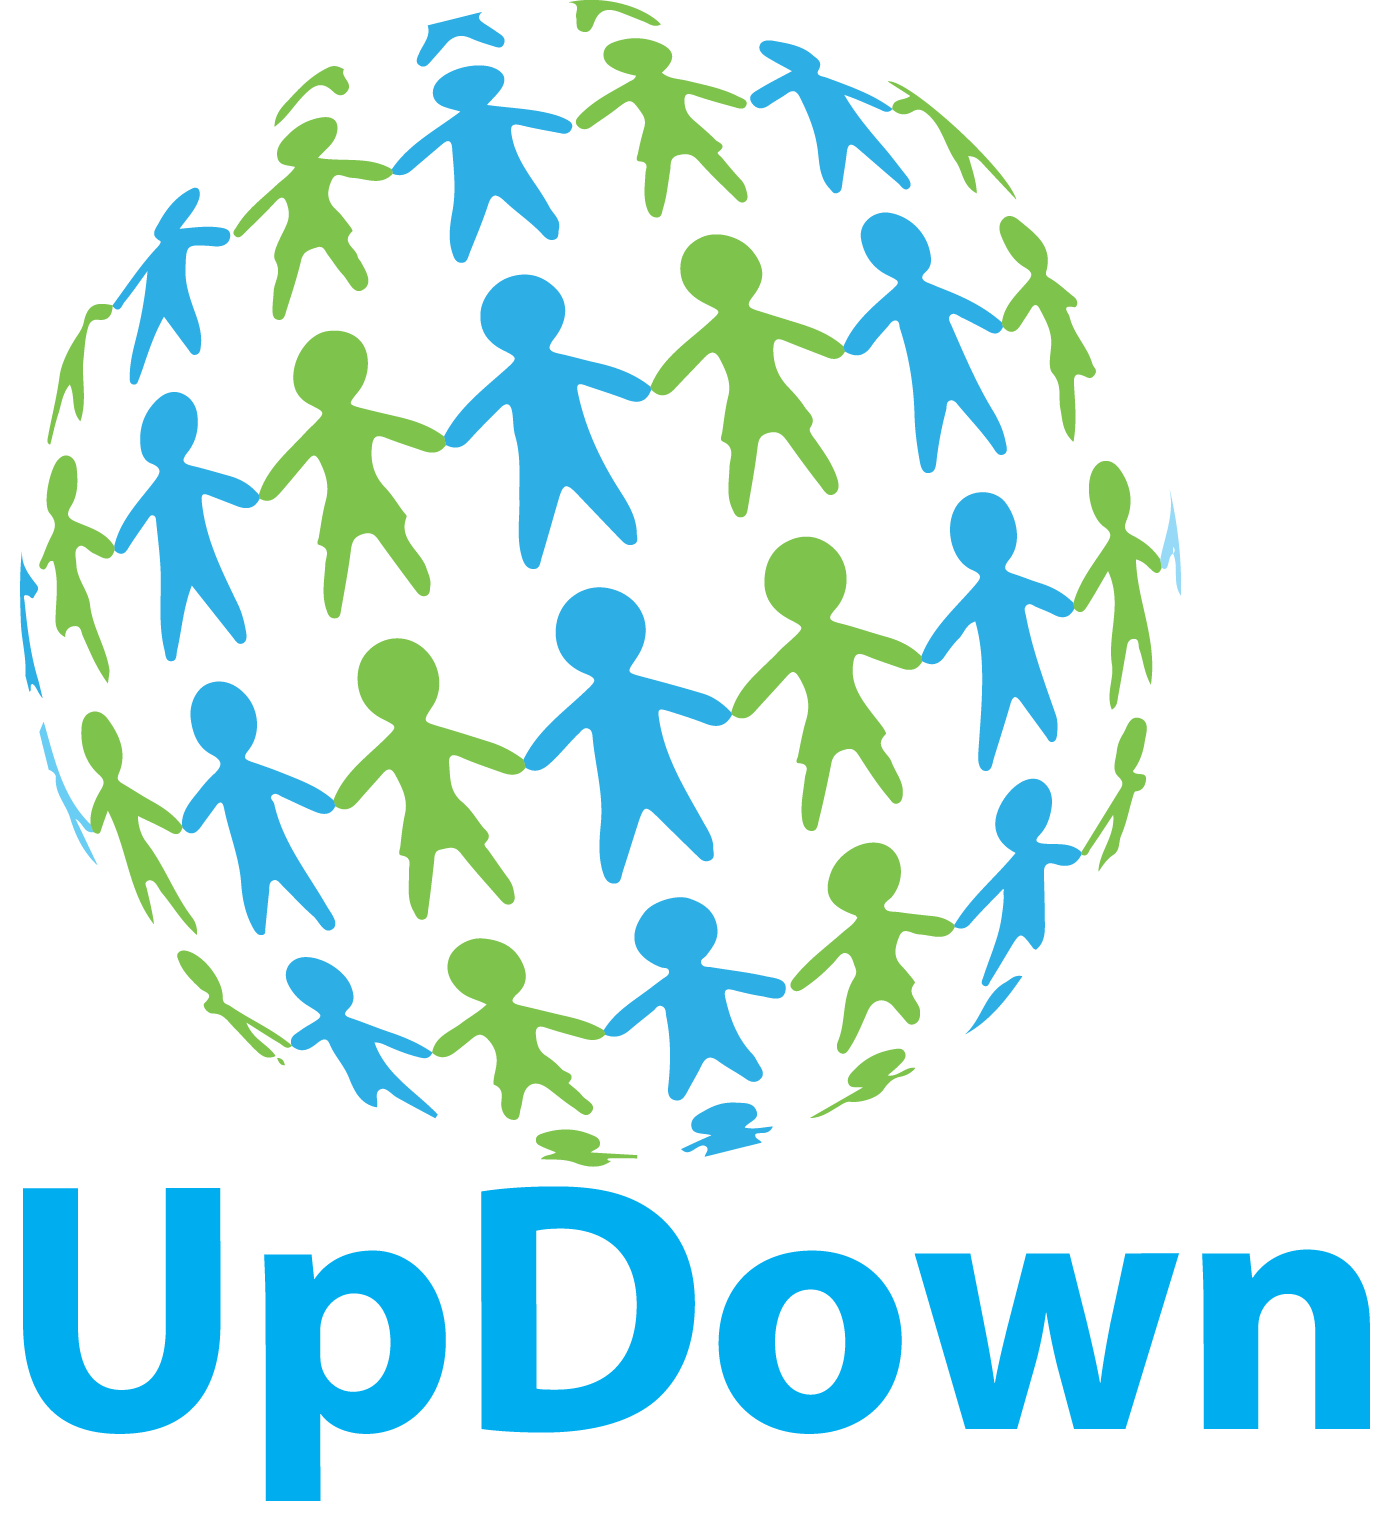
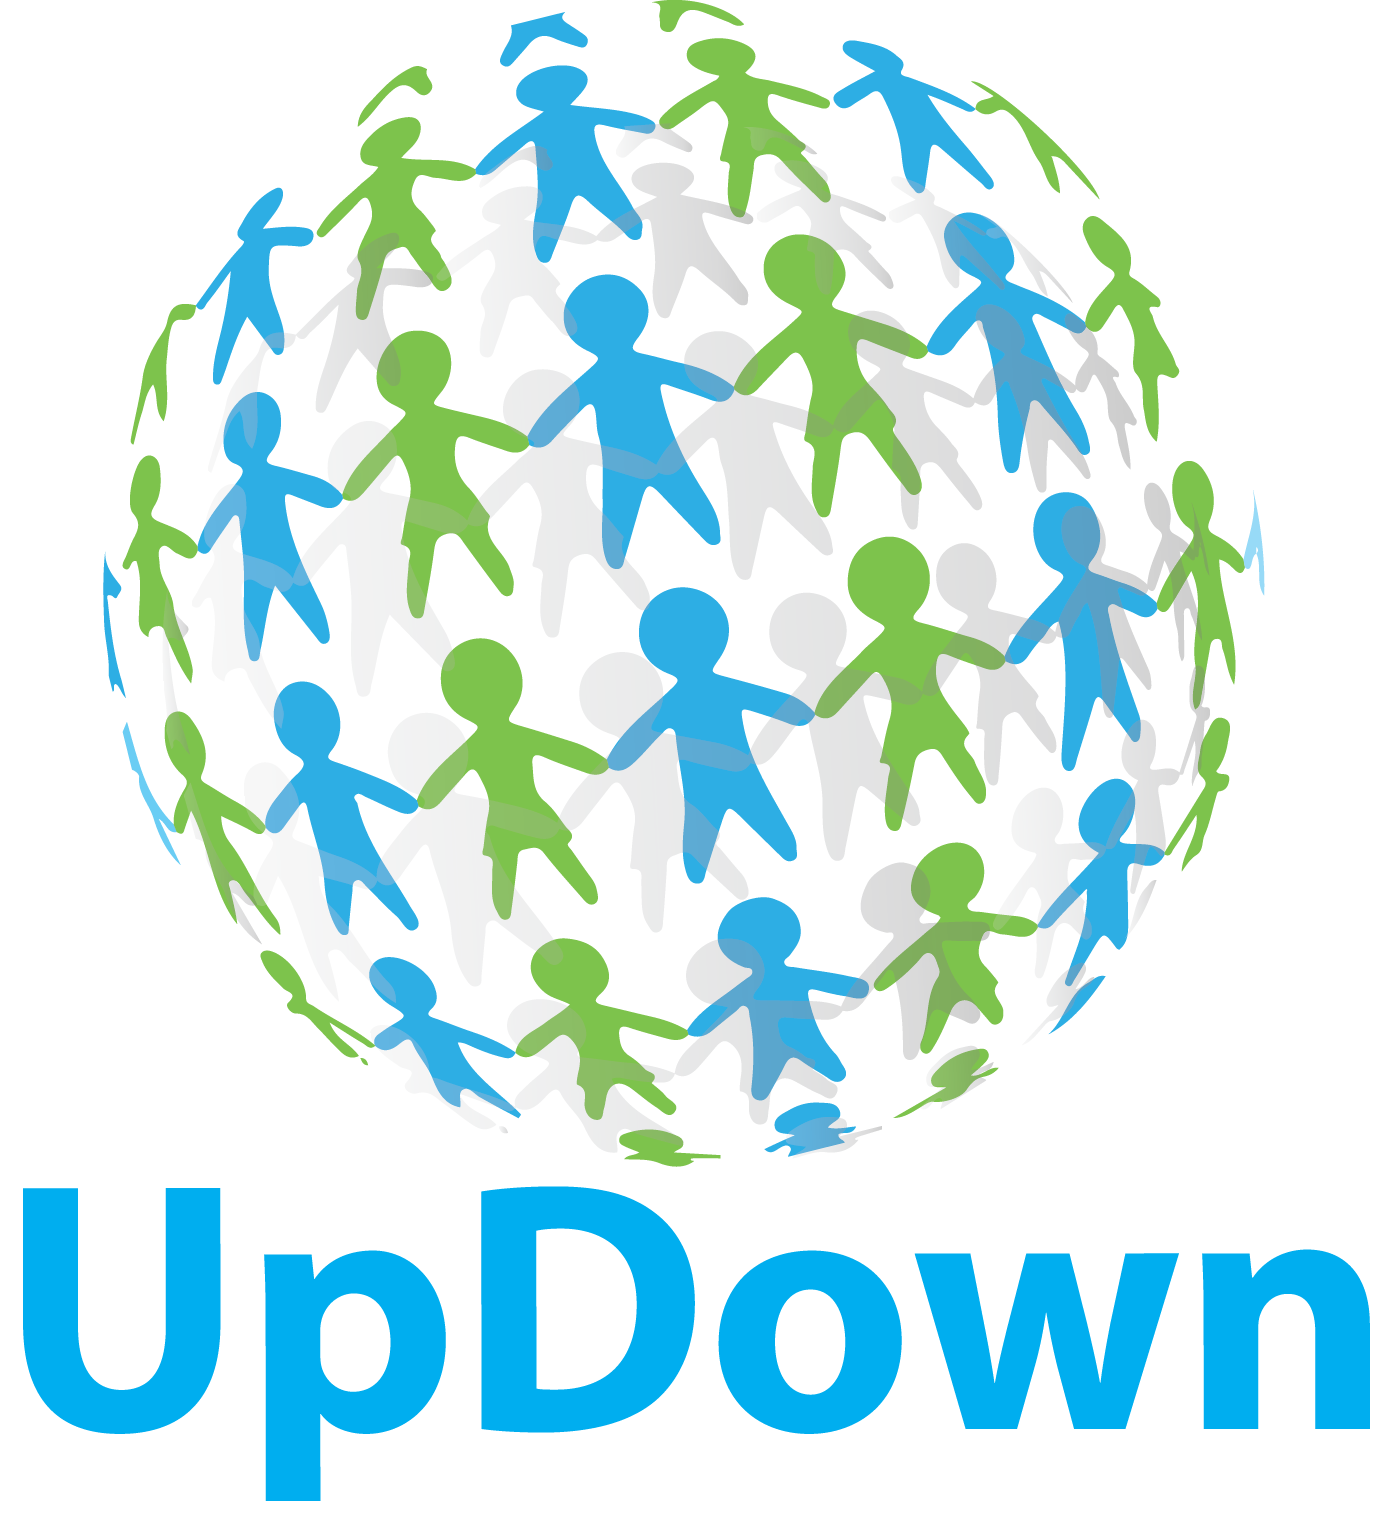
.
.

diff --git a/css/inicio.css b/css/inicio.css
@@ -7,11 +7,18 @@
 
 
 body {
-  background:circle, #0288d1,#00bcd4, #81d4fa;
-  background: white; /* For browsers that do not sup1, #00bcd4, #81d4fa); /* Safari */
-  background: -o-radial-gradient(circle, #0288d1,#00bcd4, #81d4fa); /* Opera 11.6 to 12.0 */
-  background: -moz-radial-gradient(circle, #0288d1, #00bcd4, #81d4fa); /* Firefox 3.6 to 15 */
-  background: radial-gradient(circle, #0288d1, #00bcd4,#81d4fa); /* Standard syntax */
+  /*background: rgb(167,207,223);
+  background: -moz-radial-gradient(center, ellipse cover, rgba(167,207,223,1) 40%, rgba(0,188,212,1) 100%);
+  background: -webkit-radial-gradient(center, ellipse cover, rgba(167,207,223,1) 40%,rgba(0,188,212,1) 100%);
+  background: radial-gradient(ellipse at center, rgba(167,207,223,1) 40%,rgba(0,188,212,1) 100%);
+  filter: progid:DXImageTransform.Microsoft.gradient( startColorstr='#a7cfdf', endColorstr='#00bcd4',GradientType=1 );*/
+
+  background: rgb(184,211,221);
+  background: -moz-radial-gradient(center, ellipse cover, rgba(184,211,221,1) 39%, rgba(0,188,212,1) 100%);
+  background: -webkit-radial-gradient(center, ellipse cover, rgba(184,211,221,1) 39%,rgba(0,188,212,1) 100%);
+  background: radial-gradient(ellipse at center, rgba(184,211,221,1) 39%,rgba(0,188,212,1) 100%);
+  filter: progid:DXImageTransform.Microsoft.gradient( startColorstr='#b8d3dd', endColorstr='#00bcd4',GradientType=1 );
+
   background-position:center center;
   background-size: 100% 2000px;
   background-repeat: no-repeat;
@@ -34,7 +41,7 @@ overflow: hidden;
 .globe-container
 {
 margin:200px auto;
-width:180px;
+width:150px;
 height:180px;
 border:1px solid transparent;
 -webkit-border-radius: 300px;
@@ -75,10 +82,14 @@ background-position:0px 0px;
 background-position:-60px 0px;
 }
 }
+
+
+
+
 h1{
   cursor: default;
   position: absolute;
-  top: 30px;
+  top: 20px;
   left: 0px;
   right: 0px;
   bottom: 0px;
@@ -86,7 +97,7 @@ h1{
   margin: 420px auto;
   -webkit-animation: bounce .9s ease infinite alternate;
    font-family: le;
-  font-size: 50px;
+  font-size: 80px;
   color: #e0e0e0;
   text-align: center;
   line-height: 80px;
@@ -101,14 +112,14 @@ h1{
 .letra {
   cursor: default;
   position: absolute;
-  top: 30px;
+  top: 20px;
   left: 0px;
   right: 0px;
   bottom: 0px;
   height: 100px;
-  margin: 20px auto;
+  margin: 5px auto;
     font-family:le;
-  font-size: 100px;
+  font-size: 110px;
   color: #e0e0e0;
   text-align: center;
   line-height: 100px;

diff --git a/index.html b/index.html
@@ -31,9 +31,9 @@ Scrumers Development Community de FES Aragón, UNAM" >
 <body>
 <a href="Menu/index.html">
 
-<p class="letra">Bienvenido a</p>
+<p class="letra"> Bienvenido a</p>
 	<div>
-		<div>
+		<div class="logobajo">
 
 			<h1>UP DOWN</h1>
 
@@ -41,7 +41,7 @@ Scrumers Development Community de FES Aragón, UNAM" >
 		<div class="logo-globe">
 
 
-		        <img src="media/img/Logo%20Circulo.png" alt="Imagen de el logo UpDown" width="200px " >
+		        <img src="media/img/Logo Circulo transparente.png" alt="Imagen de el logo UpDown" width="200px " >
 
 		</div>
 	</div>
